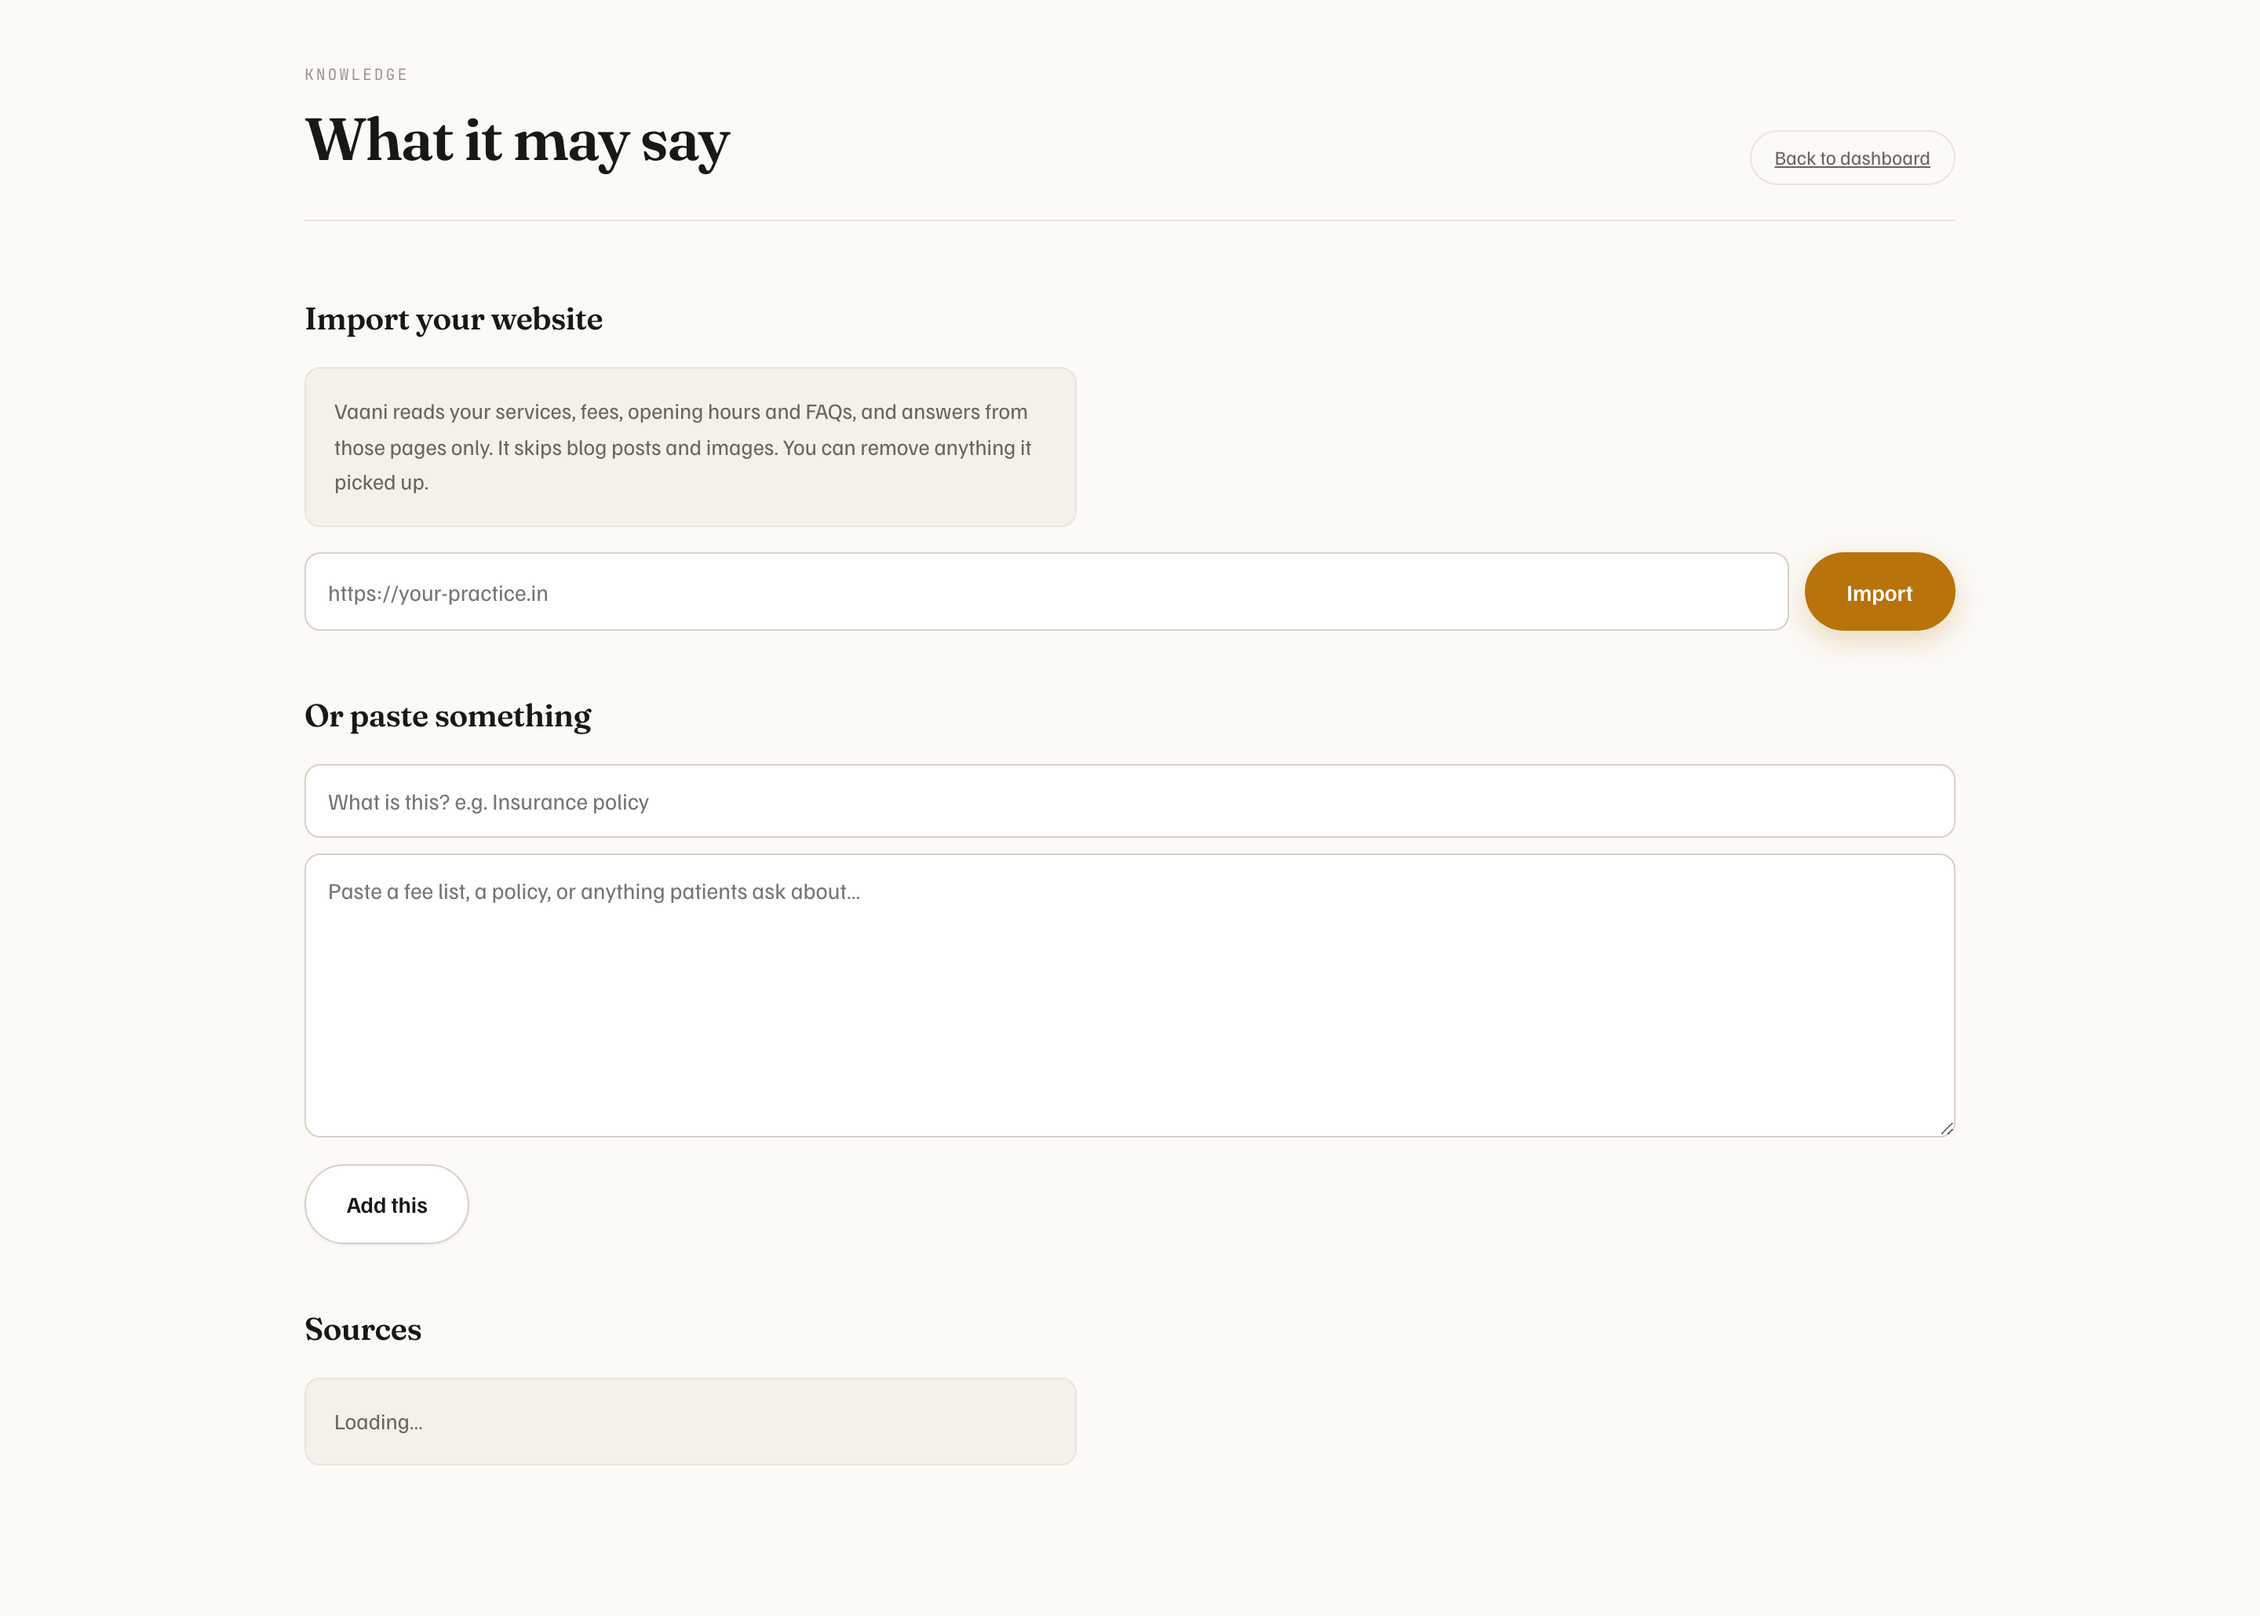
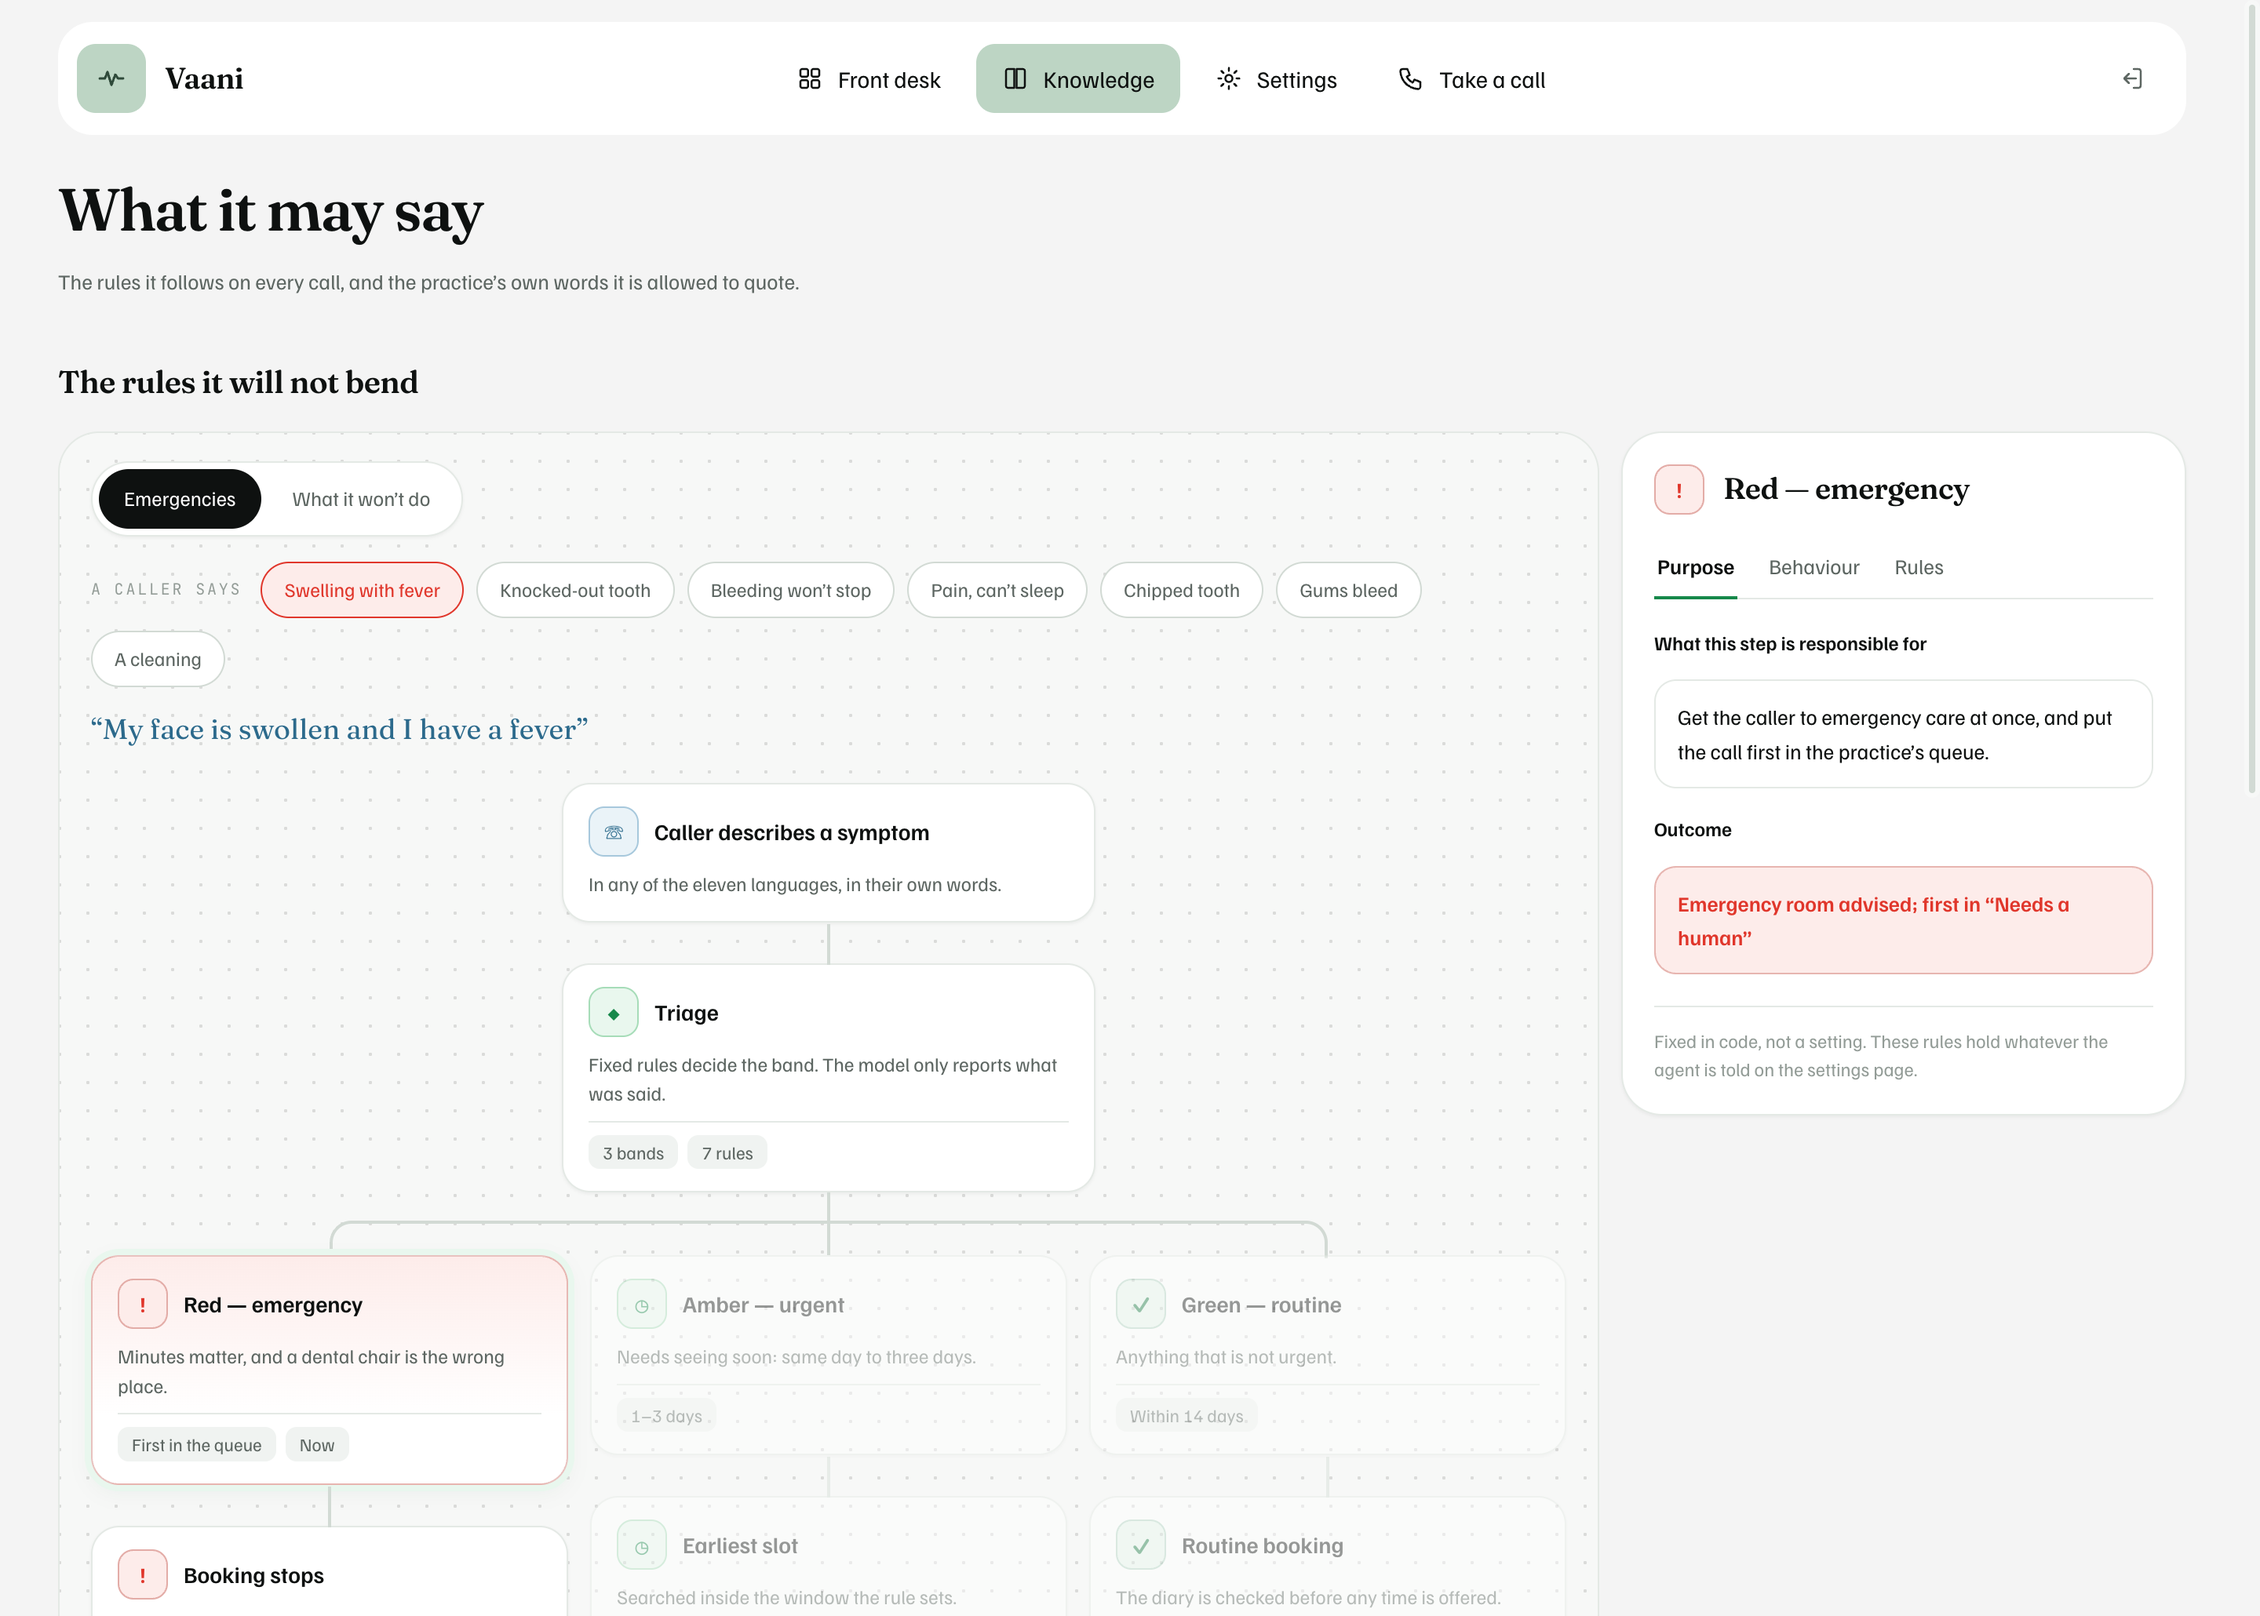
Retake the README screenshots from the new design
Every screenshot, and the banner (which had been deleted), retaken at 2x from
the Momo and CareFlow redesign. Added: the pipeline page. The console shots
come from a scripted call played through the real console, because a headless
browser cannot place a live one.

Gradient-heavy shots are WebP, and the tall phone shot JPEG, since as PNGs
they ran to 18 MB. The set is 3.0 MB, down from 3.9.

The README text now matches the screens: the console's layout, the
dashboard's order, the summary's booking that was tried and not made, and a
section for /pipeline.

diff --git a/TODO.md b/TODO.md
@@ -284,13 +284,75 @@ call; what is not built is not on it).
       queue", and the example call says "put first in the clinic's callback
       queue"
 
+### Fix — "appointment booked, but it says no appointment booked"
+The console's summary only counted a booking when the `appointment.booked`
+event arrived; the backend lost bookings three ways before that event:
+- [x] Phone line (database adapter): `bookAtomic` needed the appointment's
+      length and the tool never passed it, so every phone booking died on an
+      end time of NaN. The adapter now takes the treatment's own length; a
+      reschedule keeps the appointment's (`practice-adapter.ts`, `repo.ts`)
+- [x] Booking before the caller was identified was refused ("no patient
+      yet") and the model confirmed it aloud anyway. `book_appointment` now
+      takes `patientName` and `phone` and finds or registers the caller in the
+      same step (`tools.ts`)
+- [x] When Live sends several tool calls at once, finding or registering the
+      caller runs first — a booking sent ahead of its patient no longer fails
+      (`live/session.ts`, `identityFirst`)
+- [x] Every refusal says `booked: false` and "It is NOT booked — do not tell
+      the caller it is"; a thrown error is caught and said the same way; the
+      booking event goes out the moment the row is written
+- [x] Console: a booking also counts from the tool's own result (so a lost
+      event cannot hide it), a reschedule counts as "Moved", and a booking
+      tried and refused shows as "Booking not completed" with the reason in
+      Needs a human ("The time was taken while they decided…")
+- [x] The tool no longer tells callers a WhatsApp confirmation is coming
+- [x] Tests: 11 new (booking with name and number, returning caller, no
+      number, slot taken, unknown treatment, moved appointment; adapter books
+      and moves without a length; batch order). All 377 pass
+- [x] Checked through the real console with a scripted call: booked → "Appointment
+      booked"; booked with the event dropped → still "Appointment booked";
+      refused → "Booking not completed"
+
+### Landing — smoothness
+Measured by tracing a full scroll of the landing, production (before) against
+this build (after, in dev mode, which is heavier): work per frame 6.1 → 3.9 ms,
+GPU work 1.04 → 0.50 ms, raster workers out of the top tasks.
+- [x] No blur over things that keep moving: frosted panels, captions, pills,
+      chips, the eyebrow and the glass in every sky are solid now (the bar
+      keeps its one blur)
+- [x] Clouds are soft gradients, not blur filters (four per sky, five skies);
+      the rim lights glow from a wide tail, not a drop-shadow filter
+- [x] Scroll-linked values have no CSS transition behind them (a transition
+      restarted every frame moves in uneven steps); the pointer is eased in
+      script instead, and the loop stops once it has caught up
+- [x] Each scroll value is written to the one element that reads it — the
+      record's line, the step rails — not to whole sections
+- [x] The honeycomb restarts its wave without forcing a page-wide layout (it
+      did every 6.5 s, on screen or not), and rests while off screen
+
+### README screenshots
+- [x] Retaken from the new design at 2× scale: landing (and the banner, which
+      had been deleted), the pipeline (new), a call in the console and its
+      summary (a scripted call through the real console — no live call can be
+      placed from a headless browser), the dashboard, setup, knowledge,
+      settings, sign-in, and the landing and dashboard on a phone
+- [x] WebP/JPEG where gradients made PNGs huge: 3.0 MB in all, down from 3.9
+- [x] README text matched to the new screens: the console layout, the
+      dashboard's order, the summary's "booking tried and not made", and a
+      section for /pipeline
+
+### More honesty fixes
+- [x] Knowledge page: "Alerts the clinic" / "the on-call dentist rings back"
+      → "First in the queue" / "In Needs a human at high priority — no
+      message is sent" (the spoken script is still quoted as it is said)
+- [x] Setup page: the practice phone is "the number the agent gives out", not
+      "where urgent calls are sent" — there is no call transfer
+
 ### Ship
 - [x] Committed as garvbahl37-gif only (no co-author line) and pushed to main
-- [ ] Deployed to Vercel production (dental-voice-agent-pi.vercel.app) —
+- [x] Deployed to Vercel production (dental-voice-agent-pi.vercel.app) —
       pushes do not deploy on their own; `npx vercel deploy --prod`
-- [ ] `docs/banner.png` is deleted in the working tree but the README still
-      shows it — left out of the commit; restore it or replace it with a shot
-      of the new landing
+- [x] `docs/banner.png` replaced with a shot of the new landing (banner.webp)
 
 ### The rest of the app
 - [x] Knowledge, settings, console, sign-in, onboarding take the shared tokens
@@ -376,17 +438,24 @@ https://dribbble.com/shots/26253961-Meeto-ai-AI-Meeting-Assistant-Dashboard
 - [ ] Built only from what the call row holds — no invented summary
 
 ### Bugs found along the way (not fixed — backend)
+- [ ] **Safety, needs a decision:** the red-band script tells an emergency
+      caller "I am alerting the clinic now, and our on-call dentist will call
+      you within a few minutes" (`triage.ts` L172, and the Hinglish L176 —
+      check the other nine). Nothing sends an alert and no callback is
+      arranged; the call only goes to the top of "Needs a human". A caller
+      may wait for that call instead of going to the emergency room. Either
+      make it true (notify an on-call number) or take the promise out of all
+      eleven scripts — hand-written clinical text, so not changed in passing
 - [ ] `triage.ts`: "चेहरा सूज गया है और बुखार भी है" (swollen face + fever, Hindi)
       comes back **green**; the English sentence is red. The Hindi swelling
       pattern only fires on `सूजन` near `आँख|गला`. The seeded demo calls show it as red.
-- [ ] The agent tells callers a WhatsApp confirmation is on its way; no code
-      sends one
+- [x] The agent tells callers a WhatsApp confirmation is on its way; no code
+      sends one — the booking tool no longer asks it to
 - [ ] Triage writes the band as `red`, but the dashboard's emergency count and
       the phone outcome check compare against `'RED'` (`analytics.ts` L62,
       `twilio-stream.ts` L129) — emergencies may never be counted
-- [ ] Phone bookings go through `OrgPracticeAdapter.bookAtomic`, which needs a
-      `durationMin` that `tools.ts` never passes — the end time may be NaN
-      (not run, read from the code)
+- [x] Phone bookings go through `OrgPracticeAdapter.bookAtomic`, which needs a
+      `durationMin` that `tools.ts` never passes — fixed, see the booking fix
 - [ ] `appointment.booked`, `appointment.cancelled` and `escalation.raised`
       webhooks can be subscribed to but are never sent; `call.completed` is
       sent for phone calls only

diff --git a/README.md b/README.md
@@ -1,4 +1,4 @@
-![Vaani — an AI front desk for dental practices, taking a call in Hinglish](docs/banner.png)
+![Vaani — every patient call, in their own language: the landing page](docs/banner.webp)
 
 # Vaani — AI front desk for dental practices
 
@@ -26,11 +26,25 @@ receptionist and carries on — it never claims to be a person.
 | Take a call | [/console](https://dental-voice-agent-pi.vercel.app/console) — speak to it in the browser |
 | Set up a practice | [/start](https://dental-voice-agent-pi.vercel.app/start) — creates a real, isolated tenant |
 | The dashboard | [/login](https://dental-voice-agent-pi.vercel.app/login) — `owner@smile.example` |
+| How it works inside | [/pipeline](https://dental-voice-agent-pi.vercel.app/pipeline) — one call, end to end |
 
 Everything runs on Vercel, console and calls alike, so there is nothing to wake: a call
 opens its socket in about a second and the first audio arrives around two.
 
-![The landing page](docs/screenshots/landing.png)
+![The landing page](docs/screenshots/landing.webp)
+
+---
+
+## The pipeline
+
+![The pipeline](docs/screenshots/pipeline.webp)
+
+[/pipeline](https://dental-voice-agent-pi.vercel.app/pipeline) draws the platform as the
+code has it: a call by phone (Twilio) or in the browser, the voice session, Gemini Live
+hearing and speaking in one step, the thirteen tools it calls mid-sentence, the triage
+rules, Postgres, and the dashboard, API and webhooks at the end. Packets run the wires
+and the board tells the story in six beats; below it, each stage names the file it comes
+from. Anything not built is left off it.
 
 ---
 
@@ -39,31 +53,34 @@ opens its socket in about a second and the first audio arrives around two.
 Press **Take a call** and talk. Interrupt it mid-sentence; it stops, and it does not
 remember saying what you never heard.
 
-![A call in progress](docs/screenshots/console-call.png)
+![A call in progress](docs/screenshots/console-call.webp)
 
-Left: live state, mouth-to-ear latency, and the transcript with each speaker in their own
-hue. Right: what the agent has understood so far — caller identity, anything committed to
-the diary, and every tool call with its latency.
+The stage holds the call — the orb, its timer, the language, and the live mouth-to-ear,
+turns and elapsed. Under it, the conversation, with what the desk did written in where it
+happened. On the right, what it has understood so far — who is calling, anything committed
+to the diary, and every lookup with how long it took.
 
 When the line drops, the practice gets the record it actually needs — not a transcript,
 but an answer to *"is there anything for me to do about this call?"*
 
-![The call summary](docs/screenshots/console-summary.png)
+![The call summary](docs/screenshots/console-summary.webp)
 
 **Needs a human** is the field that matters. An unidentified caller, an unconfirmed
-number, an escalated emergency, a call that ended without booking — each is surfaced
-rather than buried. Empty is the good outcome.
+number, an escalated emergency, a booking that was tried and did not go in, a call that
+ended without booking — each is surfaced rather than buried. Empty is the good outcome.
 
 ---
 
 ## The dashboard
 
-![The practice dashboard](docs/screenshots/dashboard.png)
+![The practice dashboard](docs/screenshots/dashboard.webp)
 
-Ordered by what someone opens it for, which is not the flattering number. **Needs a
-human** comes first — ranked emergency-first and capped, because an emergency must never
-be the ninth card down — then the call counts, then how the agent behaved, then what it
-earned.
+The desk itself first — a large card with the orb, the last call and the round controls
+to take a call, open the last one or go to the callbacks — then the recent calls with
+their outcomes, the week drawn as a curve, the first reply and the bookings, and the month
+as a calendar shaded by how busy each day was. Below the fold sits everything else:
+**Needs a human** ranked emergency-first, what the desk earned, the languages, and the
+detail.
 
 Latency is reported as a median *and* a 95th percentile. One nine-second reply matters to
 the caller who got it, and a mean hides it completely.
@@ -276,7 +293,7 @@ Every slot the agent offers is read from the diary at the moment it speaks.
 
 ## Mobile
 
-![The landing page on mobile](docs/screenshots/landing-mobile.png)
+![The landing page on mobile](docs/screenshots/landing-mobile.jpg)
 
 ---
 
